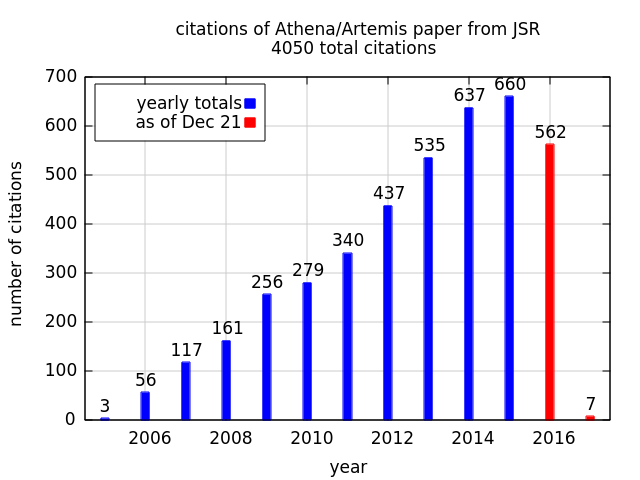
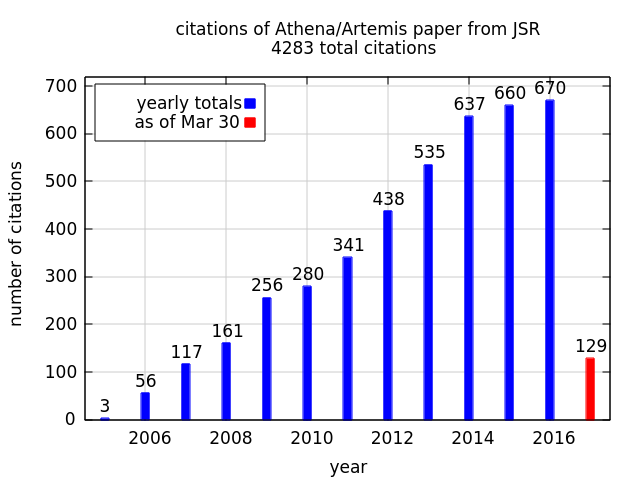
update citations

diff --git a/cv.tex b/cv.tex
@@ -1,4 +1,5 @@
-
+%% aws s3 cp --acl public-read cv.pdf s3://BruceRavelCV/cv.pdf
+%%
 \documentclass[11pt]{moderncv}
 \moderncvtheme[purple]{casual}
 %\moderncvtheme[purple]{classic}                 
@@ -135,9 +136,9 @@
   training materials.  Several times each year, I teach XAS training
   courses at synchrotrons and other institutions around the
   world. \newline{} The publication introducing the software has over
-  4050 citations as of December, 2016, making it the highest cited
+  4250 citations as of March, 2017, making it the highest cited
   article in the Journal of Synchrotron Radiation.  The $g$-index of
-  this paper is 75.}
+  this paper is 79.}
 
 \cvline{Inform XAS analysis using local structure theory}%
 {Local structural theories -- molecular dynamics, Monte Carlo,
